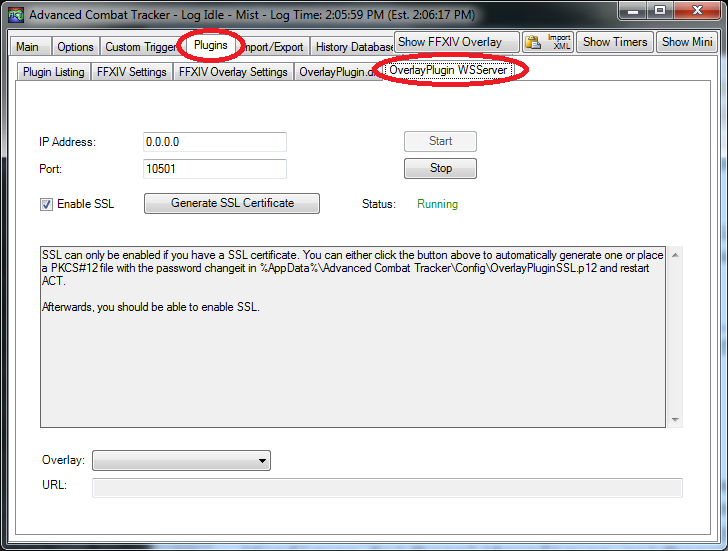
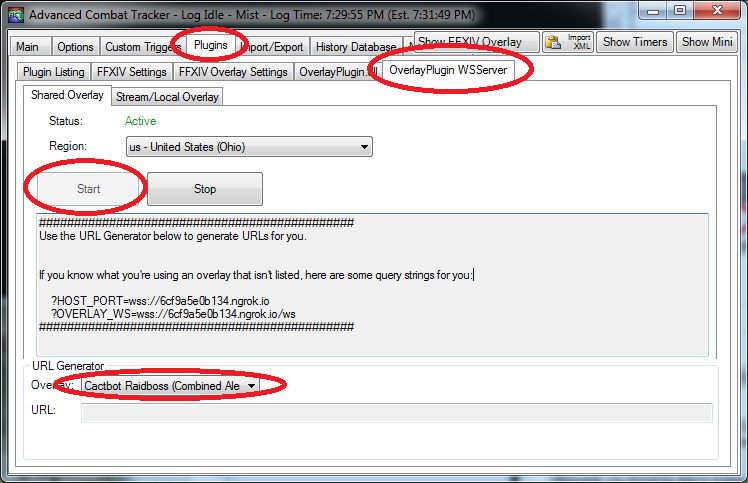
docs: update remote cactbot doc for OverlayPlugin 0.16.0

Changed region(s): [[0.0, 0.0, 1.0, 1.0]]

diff --git a/docs/RemoteCactbot.md b/docs/RemoteCactbot.md
@@ -1,9 +1,9 @@
 # Remote Cactbot
 
-This is a guide for allowing others to hear or see your cactbot callouts.
+This is a guide for allowing others to get their own cactbot callouts and DPS numbers without running ACT themselves.
 This is ideal for PS4 users who can't use ACT as well as DX9 users.
 
-The recommended method is to use port forwarding.
+The recommended method is to use the port forwarding built into OverlayPlugin.
 Port forwarding can give personalized triggers to each person connected.
 This method also will allow others to view dps meters
 or any other kind of overlay.
@@ -25,11 +25,7 @@ This guide will only cover port forwarding.
 Here are the steps you need to follow as the person running ACT:
 
 - [Setup OverlayPlugin WSServer](#setup-overlayplugin-wsserver)
-- [Setup ngrok Tunneling](#setup-ngrok-tunnelling)
-
-Once you're done,
-these are the steps that players who want to connect to your ACT instance need to follow:
-
+- [Test Your Connection](#test-your-connection)
 - [Connect to Remote ACT](#connect-to-remote-act)
 - [Configure Raidboss](#configure-raidboss)
 - [Configure cactbot user/](#configure-cactbot-user)
@@ -42,141 +38,42 @@ OverlayPlugin runs a server which accepts [WebSocket](https://en.wikipedia.org/w
 that allows other applications to use ACT's data.
 (This is different from ACTWebSocket which is no longer maintained
 and cactbot does not support.)
+It also has built in support for ngrok to enable port forwarding
+so that others outside your local network can connect to that WebSocket server.
 
-To set this up in ACT,
-go to **Plugins** -> **OverlayPlugin WSServer**.
+To enable this in ACT,
+go to **Plugins** -> **OverlayPlugin WSServer** -> **Shared Overlay**
 
 ![image](images/remote_wsserver.png)
 
-On this page, click the "Generate SSL Certificate".
-Click "Enable SSL".
-Then, start the server.
-Your screen should look like the above image,
-with "Status: Running".
-This guide assumes that you are running on port 10501.
-
-If this is set up properly,
-you can select an existing overlay
-and it will give you a url to open in a browser, e.g.
-<file:///C:/Users/tinipoutini/cactbot/ui/raidboss/raidboss.html?OVERLAY_WS=wss://127.0.0.1:10501/ws>
-
-This selection box is just for convenience,
-as you can open any overlay file even ones you haven't added to OverlayPlugin
-by appending the query string `?OVERLAY_WS=wss://127.0.0.1:10501/ws` to the url.
-
-For example,
-you should be able to open this remote cactbot test url in a browser:
-<https://quisquous.github.io/cactbot/ui/test/test.html?OVERLAY_WS=wss://127.0.0.1:10501/ws>
-
-That file is a web page being served by github,
-but the query string tells the overlay web page to connect to your ACT instance.
-
-With ACT and FFXIV open, you should see the test data update based on your actions in game.
-
-![image](images/remote_testui.png)
-
-## Setup ngrok Tunnelling
-
-Now that you've set up WebSocket support,
-you are set up for other people on your local network to connect to your ACT.
-Most of the time, you are going to want people outside of your local internet to connect.
-
-One alternative to ngrok tunneling is to just set up your router to forward ports to your machine.
-See: [https://www.howtogeek.com/66214/how-to-forward-ports-on-your-router/](https://www.howtogeek.com/66214/how-to-forward-ports-on-your-router/).
-This is complicated and router-specific, and also gives you less control.
-This guide will not cover this as an option,
-but this may be more comfortable for you if you are network savvy.
-
-### Sign Up For ngrok
-
-First, sign up for [ngrok](https://ngrok.com/), if you don't have an account:
-<https://dashboard.ngrok.com/signup>
-
-The free account will cover everything you need to do.
-The worst part about a free account is that the url will change every time you start ngrok,
-and you will need to re-share this with everybody.
-
-There are alternate services you can use to do this sort of tunneling,
-but this guide will not cover them.
-
-### Download And Install
-
-Go to [https://ngrok.com/download](https://ngrok.com/download),
-and then click the "Download for Windows" button.
-
-Place the `ngrok.exe` file somewhere in your path.
-
-The rest of this section assumes you're not that comfy with a command line.
-
-In this example, I'll unzip `ngrok.exe` directly into my `C:\Users\tinipoutini\` folder.
-Putting this in your own user folder or any other place in your `PATH` is a good choice.
-
-Now, open up `cmd.exe` by hitting Windows Key+R,
-then typing cmd, and hitting enter.
-This will open up a command line that looks something like this:
-
-```Batchfile
-Microsoft Windows [Version 6.1.7601]
-Copyright (c) 2009 Microsoft Corporation.  All rights reserved.
-
-C:\Users\tinipoutini>
-```
-
-The first thing to do is to set up your auth token.
-The command to do this is listed in your [ngrok dashboard](https://dashboard.ngrok.com/get-started/setup).
-The below is an example authtoken and will not work.
-Replace it with your own.
-
-```Batchfile
-C:\Users\tinipoutini>ngrok authtoken FKdtYBn57YTfpTRcqhr80xD_bW2KscKKIMRiHvIcDWeeZpEak
-Authtoken saved to configuration file: C:\Users\tinipoutini/.ngrok2/ngrok.yml
-```
-
-Next, start up the ngrok server via a command like this:
-
-```Batchfile
-ngrok http -host-header=rewrite -inspect=false --bind-tls "true" https://localhost:10501
-```
-
-This will create a window with server information.
-Closing this window or hitting Ctrl+C will close the server.
-
-```text
-ngrok by @inconshreveable                                       (Ctrl+C to quit)
-
-Session Status                online
-Account                       tini poutini (Plan: Free)
-Version                       2.3.35
-Region                        United States (us)
-Web Interface                 http://127.0.0.1:4040
-Forwarding                    https://a31a5403.ngrok.io -> https://localhost:105
-
-Connections                   ttl     opn     rt1     rt5     p50     p90
-                              0       0       0.00    0.00    0.00    0.00
-```
-
-You will need to run this last step any time you want to start a server.
+On this page, select your region.
+Click `Start`.
+Your screen should look like the above image with
+`Launching ngrok...Done!`
+and it should say
+`Status: Active`
+at the top of the screen.
 
 ### Test Your Connection
 
 Now that you've established port forwarding, test your connection.
 In all of these examples in the rest of the documentation,
-replace the `a31a5403.ngrok.io` with the url shown in the server window.
+replace the `a31a5403.ngrok.io` with the url shown in the log window.
 Going to <https://a31a5403.ngrok.io/>
 (substituting your server url) should give you the following "It Works" page.
-This is the same page you would see going to <https://localhost:10501>.
 
 ![image](images/remote_itworks.png)
 
-The next thing to do is to test WebSocket forwarding.
-On this step, remove the `https://` scheme from your url
-and use `wss://` instead.
-
-If everything is working, then this remote url:
+If this is set up properly,
+you can select an overlay preset like `Cactbot Test`
+and it will give you a url to open in a browser, e.g.
 <https://quisquous.github.io/cactbot/ui/test/test.html?OVERLAY_WS=wss://a31a5403.ngrok.io/ws>
 
-...should now look the same as this local connection:
-<https://quisquous.github.io/cactbot/ui/test/test.html?OVERLAY_WS=wss://127.0.0.1:10501/ws>
+That file is a web page being served by github,
+but the query string tells the overlay web page to connect to your ACT instance.
+With ACT and FFXIV open, you should see the test data update based on your actions in game.
+
+![image](images/remote_testui.png)
 
 If this is not working or you are not seeing any information, see the [HALP](#halp) section.
 
@@ -184,26 +81,18 @@ If this is not working or you are not seeing any information, see the [HALP](#ha
 
 Now, friends can connect to your ACT remotely.
 Unfortunately, all of the overlay html pages needs to be hosted remotely.
+Rather than loading local urls from your filesystem like
+`C:\Users\tinipoutini\cactbot\ui\raidboss\raidboss.html`
+you need to use github urls like
+`https://quisquous.github.io/cactbot/ui/raidboss/raidboss.html`.
 
-Assume your ngrok server is `a31a5403.ngrok.io`.
-There are two query string suffixes that you can append to urls:
+In general, you can use the URL Generator at the bottom of the OverlayPlugin tab
+to generate urls for any presets.
 
-- `?OVERLAY_WS=wss://a31a5403.ngrok.io/ws`
-- `?HOST_PORT=wss://a31a5403.ngrok.io/ws`
+For example:
 
-The `OVERLAY_WS` version is for cactbot and OverlayPlugin resources (like enmity).
-The `HOST_PORT` version is for older overlays that were built on top of ACT WebSocket.
-You should pick one of these versions, depending on the overlay type.
-
-### Some Examples
-
-For all of these examples, replace the `a31a5403.ngrok.io`
-with the `ngrok.io` url that you got when starting the server.
-
-- Kagerou DPS display: <http://kagerou.hibiya.moe/overlay/?HOST_PORT=wss://a31a5403.ngrok.io/ws>
-
+- cactbot raidboss overlay: <https://quisquous.github.io/cactbot/ui/raidboss/raidboss.html?OVERLAY_WS=wss://a31a5403.ngrok.io/ws>
 - rdmty DPS overlay: <https://quisquous.github.io/cactbot/ui/dps/rdmty/dps.html?OVERLAY_WS=wss://a31a5403.ngrok.io/ws>
-
 - cactbot oopsy: <https://quisquous.github.io/cactbot/ui/oopsyraidsy/oopsyraidsy.html?OVERLAY_WS=wss://a31a5403.ngrok.io/ws>
 
 ### Configure Raidboss
